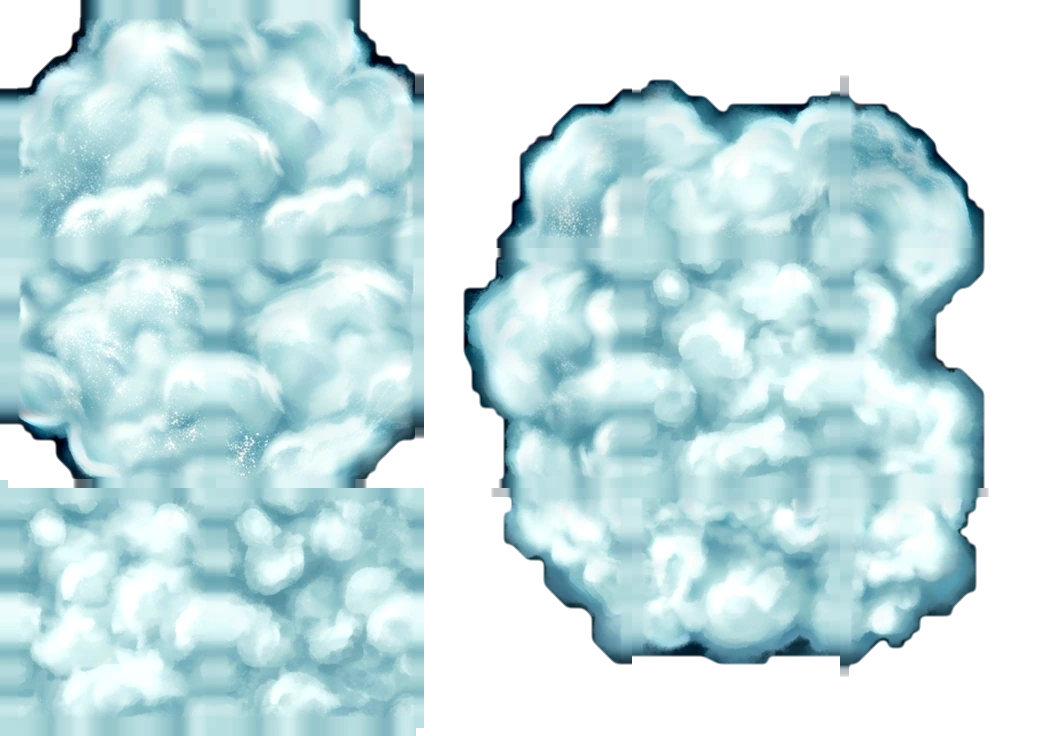
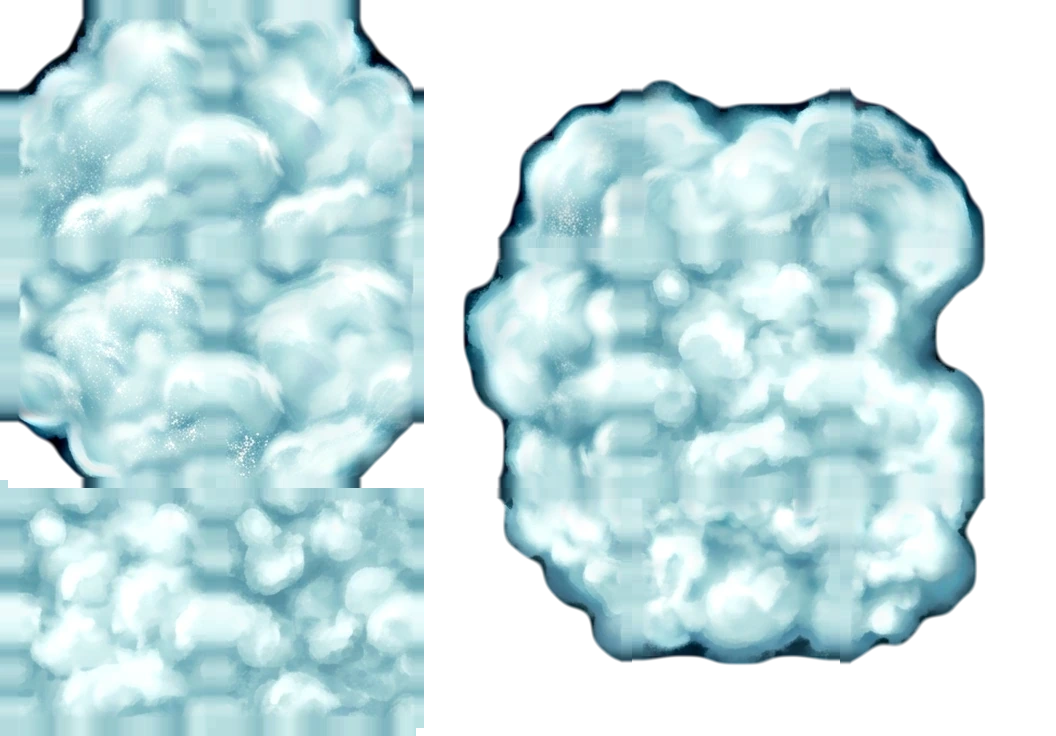
D67: HD cloud rims follow a smoothed contour, solved across tile edges
The layer-1 alpha was the MMPX silhouette blurred at 3 texels, which kept MMPX's
8-texel stairs on the cloud rims and drew jogs/slivers where tiles that aren't each
other's usual neighbour meet (43|44, 63|64). Alpha is now a smoothstep across a
blurred signed distance of the MMPX mask (8 texels, one original pixel), whose edge
strips are solved over the map's pairs (5+ occurrences) like the colour's. A new
realpha command redoes this on the committed atlas without the Gemini answers.

Claude-Session: https://claude.ai/code/session_01Tt7ZcrN2zwvXKGRkJHtp1H

diff --git a/docs/terrain-pipeline.html b/docs/terrain-pipeline.html
@@ -168,12 +168,17 @@ Gemini.</p>
 <p>Each answer cell is registered to the sheet's picture of it (normalised cross-correlation over a rescale of
 &plusmn;6% and a shift, then each tile by a small shift), every tile is resampled from the registered art at 8x and
 colour-matched to the original tile, and one candidate per tile is chosen (below). Layers 1 and 2 take their alpha from
-the original silhouette, upscaled with MMPX among the tile's usual neighbours (index 0 is transparent).</p>
+the original silhouette, upscaled with MMPX among the tile's usual neighbours (index 0 is transparent), with its contour
+smoothed at one original pixel: the mask's signed distance, blurred at 8 texels, with a 2+2-texel ramp across zero, so
+the 8-texel stairs MMPX leaves on shallow slopes come out as curves (D67).</p>
 <p><b>Seams (D58).</b> Every tile side gets an edge strip (its outer 4 texels, smoothed along the edge). All strips are
 solved at once: least squares over every pair of tiles the map puts side by side, weighted by how often, with a pull
 of 0.15 towards the tile's own painting. Each tile's border is then moved onto its strips, the difference fading in
 over 40 texels, so the painting's detail stays. Alpha is not averaged (it would draw a faint line of cloud where one
-side is empty).</p>
+side is empty); instead the smoothed distance under it is solved the same way, over the pairs the map has at least 5
+times, so contours of tiles that aren't each other's usual neighbours (43|44, 63|64) meet without a jog or sliver (D67).
+<code>terrain_hd.py --work DIR realpha</code> redoes only this alpha on the committed atlas, keeping its colour (it needs
+<code>DIR/inventory.json</code>, not the answers).</p>
 <p><b>Choosing among a tile's paintings (D59).</b> A tile usually appears in several regions and contexts, so it has
 several candidate paintings. The best fit to the original is not the best painting: on TYRIAN the answer that copied
 the pixel blocks fit best. The score is the fit (NCC) minus the colour error, plus:</p>
@@ -289,7 +294,7 @@ npm run dev   # then ?debug=play&amp;seed=1&amp;skip=300&amp;freezeAt=300[&amp;t
     <code>drawListRenderer.ts</code>, <code>src/core/terrainStyle.ts</code>, <code>src/app/options.ts</code>,
     <code>src/app/levelPreload.ts</code></td><td>yes</td></tr>
   <tr><td>Tests</td><td><code>tests/render/terrainArt.test.ts</code></td><td>yes</td></tr>
-  <tr><td>Decisions</td><td>D57 (game side), D58 (art pipeline), D59 (TYRIAN's atlas), D60 (verification)</td><td>yes</td></tr>
+  <tr><td>Decisions</td><td>D57 (game side), D58 (art pipeline), D59 (TYRIAN's atlas), D60 (verification), D67 (smooth cloud rims)</td><td>yes</td></tr>
 </table>
 
 <h2>Extending to another level or tileset</h2>

diff --git a/tools/terrain_hd.py b/tools/terrain_hd.py
@@ -30,13 +30,19 @@ reads (public/art/terrain/<shapes>/manifest.json + <layer>.webp, the format in D
         original tile (mean and low-frequency contrast per channel). The best candidate per tile wins
         (or --combine mean): its fit, less its colour error, copied pixel blocks and made-up marks,
         with a bonus for map regions (D59); --exclude, --pick and --cache adjust and speed this up.
-        The winner's broad shading (16 texels) is then replaced by the original's. Alpha (layers 1-2) is the original silhouette, smoothly upscaled among the
-        tile's usual neighbours. Then the seams: every tile side's edge strip is solved jointly, least
+        The winner's broad shading (16 texels) is then replaced by the original's. Alpha (layers 1-2) is
+        the original silhouette, MMPX-upscaled among the tile's usual neighbours with its contour smoothed
+        at one original pixel (a blurred signed distance, D67), its edges solved like the colour's.
+        Then the seams: every tile side's edge strip is solved jointly, least
         squares over every pair of tiles the map puts side by side (weighted by how often) plus a weak
         pull towards the tile's own painting, and each tile's border is moved onto its strips (the
         difference fades in over 40 texels, the outer 4 texels are the strip). One atlas per layer is
         packed (16-aligned rects, 16 px edge-extended gutters): <out>/<shapes>/<layer>.webp and
         manifest.json; DIR/cut-report.json says where each tile came from and how well it fitted.
+
+    python tools/terrain_hd.py --work DIR realpha [--out public/art/terrain]
+        Redoes only the alpha of the committed atlas's layers 1-2 (as cut makes it), keeping its colour;
+        needs DIR/inventory.json, not the answers (D67).
 
     python tools/terrain_hd.py --work DIR check [--out public/art/terrain]
         Reassembles the level's map from the atlas, 12 rows at a time, into contact sheets (original,
@@ -689,7 +695,9 @@ BAND_LO = 40  # texels over which a strip's correction fades into the tile
 BAND_HI = 4  # texels at the edge set to the strip itself
 REGION_BONUS = 0.06  # score for paintings from map regions over contexts (their texture matches the neighbours')
 LOWFREQ = 16.0  # texels: shading broader than this follows the original tile (match_lowfreq)
-SIGMA_REF = 3.0  # blur of the MMPX 8x silhouette for alpha, texels
+ALPHA_SMOOTH = 8.0  # texels (one original pixel): the silhouette's contour is smoothed at this scale (alpha_level)
+ALPHA_RAMP = 2.0  # texels each side of the contour over which alpha goes 0 -> 1
+ALPHA_MIN_PAIRS = 5  # a pair of tiles the map has fewer times than this doesn't pull their alpha edges together
 
 
 def gray(a: np.ndarray) -> np.ndarray:
@@ -825,25 +833,50 @@ def context_units(L: LevelData, layer: int, tile: int, usual: dict) -> np.ndarra
     return cell_units(L, layer, grid)
 
 
-def edge_reference(L: LevelData, layer: int, tile: int, usual: dict) -> tuple[np.ndarray, np.ndarray]:
-    """The original tile upscaled smoothly among its usual neighbours: the MMPX 8x upscale, blurred
-    a little, centre cut out (RGB float, and coverage 0..1). The coverage is the alpha of layers 1-2:
-    the original silhouette with a ~1-2 texel soft edge, continuous with the usual neighbours'."""
+def alpha_level(L: LevelData, layer: int, tile: int, usual: dict, smooth: float = ALPHA_SMOOTH) -> np.ndarray:
+    """The original tile's silhouette as a smooth level field (texels, > 0 inside, the contour at 0;
+    layers 1-2), among its usual neighbours: the MMPX 8x upscale's mask, its signed distance (clamped
+    to 3 `smooth`), blurred at `smooth` texels. Blurring the distance rounds the 8-texel stairs MMPX
+    leaves on slopes other than 45 degrees while straight runs stay where they are (D67); alpha is
+    a short ramp across the level's zero (alpha_from_level). Before D67 alpha was the MMPX mask
+    blurred at 3 texels, which kept the stairs."""
     from scipy import ndimage
 
     u = context_units(L, layer, tile, usual)
     luma = L.luma_clear if layer > 0 else L.luma
     up = mmpx(np.clip(u, 0, 255).astype(np.uint8), luma, SCALE)
-    vis = np.kron(u >= 0, np.ones((SCALE, SCALE), bool)) & ((up != 0) if layer > 0 else True)
-    rgb = L.rgb[up].astype(np.float32)
-    m = vis.astype(np.float32)
-    num = ndimage.gaussian_filter(rgb * m[..., None], (SIGMA_REF, SIGMA_REF, 0))
-    den = ndimage.gaussian_filter(m, SIGMA_REF)
-    ref = num / np.maximum(den, 1e-3)[..., None]
-    cov = ndimage.gaussian_filter(m, SIGMA_REF)
-    alpha = np.clip((cov - 0.5) / 0.3 + 0.5, 0, 1)  # a steep ramp: a ~1-2 texel soft silhouette
+    vis = np.kron(u >= 0, np.ones((SCALE, SCALE), bool)) & (up != 0)
+    if vis.all() or not vis.any():
+        sdf = np.full(vis.shape, 3 * smooth if vis.all() else -3 * smooth, np.float32)
+    else:
+        sdf = np.where(vis, ndimage.distance_transform_edt(vis) - 0.5, 0.5 - ndimage.distance_transform_edt(~vis))
+    lev = ndimage.gaussian_filter(np.clip(sdf, -3 * smooth, 3 * smooth).astype(np.float32), smooth)
     ys, xs = slice(TILE_H * SCALE, 2 * TILE_H * SCALE), slice(TILE_W * SCALE, 2 * TILE_W * SCALE)
-    return ref[ys, xs], alpha[ys, xs]
+    return lev[ys, xs]
+
+
+def alpha_from_level(lev: np.ndarray, ramp: float = ALPHA_RAMP) -> np.ndarray:
+    return smoothstep(-ramp, ramp, lev)
+
+
+def solve_alpha(L: LevelData, layer: int, inv_tiles: dict, tiles, models: list[dict], min_pairs: int = ALPHA_MIN_PAIRS,
+                lam: float = LAMBDA, band_lo: float = BAND_LO, band_hi: float = BAND_HI) -> dict[int, np.ndarray]:
+    """Alpha (0..1) for each tile in `tiles` on layer 1-2, seamless across the map's pairs: each tile's
+    level field (alpha_level) has its edge strips solved jointly like the colour (solve_strips) over
+    the pairs the map has at least `min_pairs` times, and moved onto them (apply_strips). A tile's
+    level near a side depends on the usual neighbour there, so two tiles that are not each other's
+    usual neighbour drew a jog or a sliver where they met (43|44, 63|64). Solving the level, not alpha,
+    moves the contour to a common crossing point without a half-transparent line; rare pairs are
+    left out so a lone pairing of an empty edge with a full one doesn't drag cloud into the gap."""
+    off = 128.0  # apply_strips clips to 0..255; the level is within +-3 ALPHA_SMOOTH
+    lev = {n: (alpha_level(L, layer, n, inv_tiles[str(n)]["usual"]) + off)[..., None] for n in tiles}
+    if band_lo > 0 or band_hi > 0:
+        g = L.grids[layer]
+        rep, _ = replaced_mask(g, layer, models)
+        pairs = Counter({k: c for k, c in map_pairs(g, (g >= 0) & ~rep, lev).items() if c >= min_pairs})
+        strips = solve_strips(lev, pairs, lam)
+        lev = {n: apply_strips(v, {side: strips[(n, side)] for side in OPPOSITE}, band_lo, band_hi) for n, v in lev.items()}
+    return {n: alpha_from_level(v[..., 0] - off) for n, v in lev.items()}
 
 
 def smoothstep(e0: float, e1: float, x: np.ndarray) -> np.ndarray:
@@ -1110,11 +1143,53 @@ def match_lowfreq(L: LevelData, inv_tile: dict, layer: int, n: int, hd: np.ndarr
 
 
 def prepare_tile(L: LevelData, inv_tile: dict, layer: int, n: int, hd: np.ndarray) -> np.ndarray:
-    """The painting with alpha (layers 1-2: the original silhouette; colour bled under it)."""
+    """The painting with alpha (layers 1-2: the original silhouette, unsolved, alpha_level; colour
+    bled under it). cmd_cut replaces the alpha with solve_alpha's once all the layer's tiles are in."""
     if layer == 0:
         return hd.astype(np.float32)
-    _, alpha = edge_reference(L, layer, n, inv_tile["usual"])
+    alpha = alpha_from_level(alpha_level(L, layer, n, inv_tile["usual"]))
     return np.concatenate([bleed(hd, alpha), alpha[..., None] * 255], -1).astype(np.float32)
+
+
+def set_alpha(L: LevelData, layer: int, inv_tiles: dict, done: dict[int, np.ndarray], models: list[dict], args) -> None:
+    """Layers 1-2: each tile's alpha from solve_alpha, colour bled under it afresh."""
+    alphas = solve_alpha(L, layer, inv_tiles, done, models, args.alpha_min_pairs, args.lam, args.band_lo, args.band_hi)
+    for n, img in done.items():
+        img[..., :3] = bleed(img[..., :3], alphas[n])
+        img[..., 3] = alphas[n] * 255
+
+
+def save_atlas(done: dict[int, np.ndarray], layer: int, out_dir: Path, lossless: bool) -> tuple[Image.Image, dict]:
+    ch = 3 if layer == 0 else 4
+    atlas, rects = pack_atlas(done, ch)
+    img = Image.fromarray(atlas.round().clip(0, 255).astype(np.uint8), "RGB" if ch == 3 else "RGBA")
+    name = f"{layer}.webp"
+    if lossless:
+        img.save(out_dir / name, lossless=True, method=6)
+    else:
+        img.save(out_dir / name, quality=92, method=6, alpha_quality=100)
+    return img, rects
+
+
+def cmd_realpha(args) -> None:
+    """Redo the alpha of an atlas's layers 1-2 in place (set_alpha) without the Gemini answers: the
+    colour is the atlas's own, bled from what was visible before; layer 0 and the manifest's other
+    fields are untouched. Re-encodes the layer's WebP (quality 92 unless --lossless)."""
+    L = LevelData(Path(args.data), args.level)
+    inv = json.loads((Path(args.work) / "inventory.json").read_text())
+    out_dir = Path(args.out) / L.shapes_name
+    man = json.loads((out_dir / "manifest.json").read_text())
+    atlas = load_atlas(Path(args.out), L.shapes_name)
+    models = load_models(L.shapes_file)
+    for layer, tiles in sorted(atlas.items()):
+        if layer == 0:
+            continue
+        done = {n: np.concatenate([bleed(t[..., :3], t[..., 3] / 255), t[..., 3:]], -1) for n, t in tiles.items()}
+        set_alpha(L, layer, inv["layers"][str(layer)]["tiles"], done, models, args)
+        img, rects = save_atlas(done, layer, out_dir, args.lossless)
+        lay = man["layers"][str(layer)]
+        assert (lay["width"], lay["height"], lay["tiles"]) == (img.width, img.height, rects), "atlas layout changed"
+        print(f"layer {layer}: alpha redone for {len(done)} tiles -> {out_dir / lay['image']}")
 
 
 def cmd_cut(args) -> None:
@@ -1184,19 +1259,15 @@ def cmd_cut(args) -> None:
         if args.band_lo > 0 or args.band_hi > 0:
             g = L.grids[layer]
             rep, _ = replaced_mask(g, layer, models)
-            # Colour only: alpha stays the original silhouette (averaging it across a pair would put
-            # a faint line of cloud where one tile's edge is empty and its neighbour's isn't).
+            # Colour here; alpha is solved on its own below (averaging alpha itself across a pair
+            # would put a faint line of cloud where one tile's edge is empty and its neighbour's isn't).
             strips = solve_strips({n: img[..., :3] for n, img in done.items()}, map_pairs(g, (g >= 0) & ~rep, done), args.lam)
             for n, img in done.items():
                 img[..., :3] = apply_strips(img[..., :3], {side: strips[(n, side)] for side in OPPOSITE}, args.band_lo, args.band_hi)
-        ch = 3 if layer == 0 else 4
-        atlas, rects = pack_atlas(done, ch)
-        img = Image.fromarray(atlas.round().clip(0, 255).astype(np.uint8), "RGB" if ch == 3 else "RGBA")
+        if layer > 0:
+            set_alpha(L, layer, d["tiles"], done, models, args)
+        img, rects = save_atlas(done, layer, out_dir, args.lossless)
         name = f"{layer}.webp"
-        if args.lossless:
-            img.save(out_dir / name, lossless=True, method=6)
-        else:
-            img.save(out_dir / name, quality=92, method=6, alpha_quality=100)
         atlas_manifest["layers"][layer_s] = {"image": name, "width": img.width, "height": img.height, "tiles": rects}
         missing = [k for k, t in d["tiles"].items() if t["drawnAsTile"] and int(k) not in done]
         print(f"layer {layer}: {len(done)} tiles -> {out_dir / name} ({img.width}x{img.height})"
@@ -1356,11 +1427,18 @@ def main(argv: list[str] | None = None) -> None:
     c.add_argument("--band-lo", type=float, default=BAND_LO, help=f"texels a seam correction fades over (default {BAND_LO}; 0 and --band-hi 0: no seam pass)")
     c.add_argument("--band-hi", type=float, default=BAND_HI, help=f"texels at the edge set to the shared strip (default {BAND_HI})")
     c.add_argument("--lam", type=float, default=LAMBDA, help=f"how much a strip keeps its own painting (default {LAMBDA})")
+    for p_ in (c, ra := sub.add_parser("realpha", help="redo the alpha of an atlas's layers 1-2 (no answers needed)")):
+        p_.add_argument("--alpha-min-pairs", type=int, default=ALPHA_MIN_PAIRS, help=f"map pairs needed before two tiles' alpha edges are pulled together (default {ALPHA_MIN_PAIRS})")
+    ra.add_argument("--out", default=str(ROOT / "public/art/terrain"), help="atlas root (default public/art/terrain)")
+    ra.add_argument("--lossless", action="store_true", help="lossless WebP (default quality 92)")
+    ra.add_argument("--band-lo", type=float, default=BAND_LO, help=f"texels an alpha seam correction fades over (default {BAND_LO})")
+    ra.add_argument("--band-hi", type=float, default=BAND_HI, help=f"texels at the edge set to the shared strip (default {BAND_HI})")
+    ra.add_argument("--lam", type=float, default=LAMBDA, help=f"how much a strip keeps its own (default {LAMBDA})")
     k = sub.add_parser("check", help="reassemble the map from the atlas, measure seams")
     k.add_argument("--out", default=str(ROOT / "public/art/terrain"), help="atlas root (default public/art/terrain)")
     k.add_argument("--rows", type=int, default=12, help="map rows per contact sheet")
     args = ap.parse_args(argv)
-    {"inventory": cmd_inventory, "sheets": cmd_sheets, "fake": cmd_fake, "cut": cmd_cut, "check": cmd_check}[args.cmd](args)
+    {"inventory": cmd_inventory, "sheets": cmd_sheets, "fake": cmd_fake, "cut": cmd_cut, "realpha": cmd_realpha, "check": cmd_check}[args.cmd](args)
 
 
 if __name__ == "__main__":

diff --git a/DECISIONS.md b/DECISIONS.md
@@ -2586,3 +2586,47 @@ show where an enemy's rock meets an unusual neighbour (as D63's tiles), and the 
 sprites (`assembly-newsh2-115`, `-119`, the rock outcrop `assembly-newshe-39`) stand on level 1's dirt,
 not island rock, and are unchanged.
 Fallback: revert the five scripts and their GLBs; `castsShadow` is harmless without the flag.
+
+## D67 — Cloud rims: the HD cloud tiles' alpha follows a smoothed contour, solved across tile edges
+
+2026-11-03
+
+**Decision:** The alpha of the HD terrain's layers 1-2 (`tools/terrain_hd.py`, `alpha_level`,
+`solve_alpha`) is no longer the MMPX 8x silhouette blurred at 3 texels and ramped (D58), which kept the
+8-texel stairs MMPX leaves on slopes that aren't 45 degrees and drew TYRIAN's cloud rims (40-44, 50-52,
+54, 62-64) as polygons. It is now:
+- **A smoothed contour.** The MMPX mask's signed distance (clamped to +-24 texels), blurred at 8 texels
+  (one original pixel), with alpha a smoothstep over +-2 texels across its zero. Straight runs stay
+  where they were; stairs and one-pixel corners round off. The cloud's shape is still the original's:
+  against D58's alpha the half-alpha contour moves 2-4 texels in most tiles and at most 14 texels
+  (under 2 original pixels; 41 and 51, where the edge solve bends it).
+- **Solved across tile edges.** A tile's contour near a side follows its usual neighbour there, so where
+  two tiles that aren't each other's usual neighbour meet (43|44 23 times, 63|64 21 times) the contours
+  met with a jog, and 44's left edge drew a thin dark sliver above 43's rim. The distance field (not
+  alpha) now gets the colour's seam treatment (D58: strips solved jointly over the map's pairs, faded in
+  over 40 texels), over pairs the map has at least 5 times, so contours bend to a shared crossing point.
+  Alpha itself is still not averaged (D58's faint line), and rare pairs are left out: with 44|53 (once)
+  in, a bar of cloud appeared at 44's empty right edge.
+- **`realpha`**, a new command, redoes just this on the committed atlas (colour bled again from what was
+  visible), since the Gemini answers aren't kept; `cut` does the same after its colour seams.
+
+**Result** (`public/art/terrain/shapesz/1.webp`, 78.6 KB -> 80.4 KB, same layout; layer 0 untouched):
+the stair score (strongest 8-texel phase of the alpha's steps over the mean) of the rim tiles went from
+1.8-3.2 to 1.1-1.9 (63: 3.24 -> 1.68, 52: 2.95 -> 1.74, 43: 2.74 -> 1.59, 54: 2.72 -> 1.91); the
+count-weighted mean alpha step across the map's tile edges from 0.0026 to 0.0005. In game
+(`?debug=play&seed=1&skip=T&freezeAt=T`, T = 300, 1000, 2000, 6500, at 1920x1080 and 3840x2160) the rims
+are soft curves with the original's dark edge colour, and 60 fps with the same cpu ms as before.
+Remaining: the dark edge is the original's outline colour bled under the alpha (kept, it is the
+original's); colour seams inside the clouds are unchanged; pairs seen under 5 times keep their jog.
+
+**Options considered:**
+- *Blur the mask more (sigma 6-8) and keep D58's ramp:* rounds the stairs too, but the ramp's width
+  then grows with the blur (~6 texels, soft edges); the blurred distance keeps a 4-texel ramp.
+- *The painting's own matte:* Gemini's cloud/black edge registered loosely and the rim tiles were
+  painted puffier than the original (D59), so it would move the outline.
+- *Edge-clamped context at the sides* (contour independent of the neighbour): kinks every diagonal
+  contour at a tile edge.
+
+**Review:** before/after captures and crops in `tyrian-scratch/pixel-sweep/cloud-rim-stairsteps/`
+(`cmp_*.png`). Fallback: `git checkout` the previous `1.webp`; `realpha --alpha-min-pairs 1000000` keeps
+the smoothing without the edge solve.
